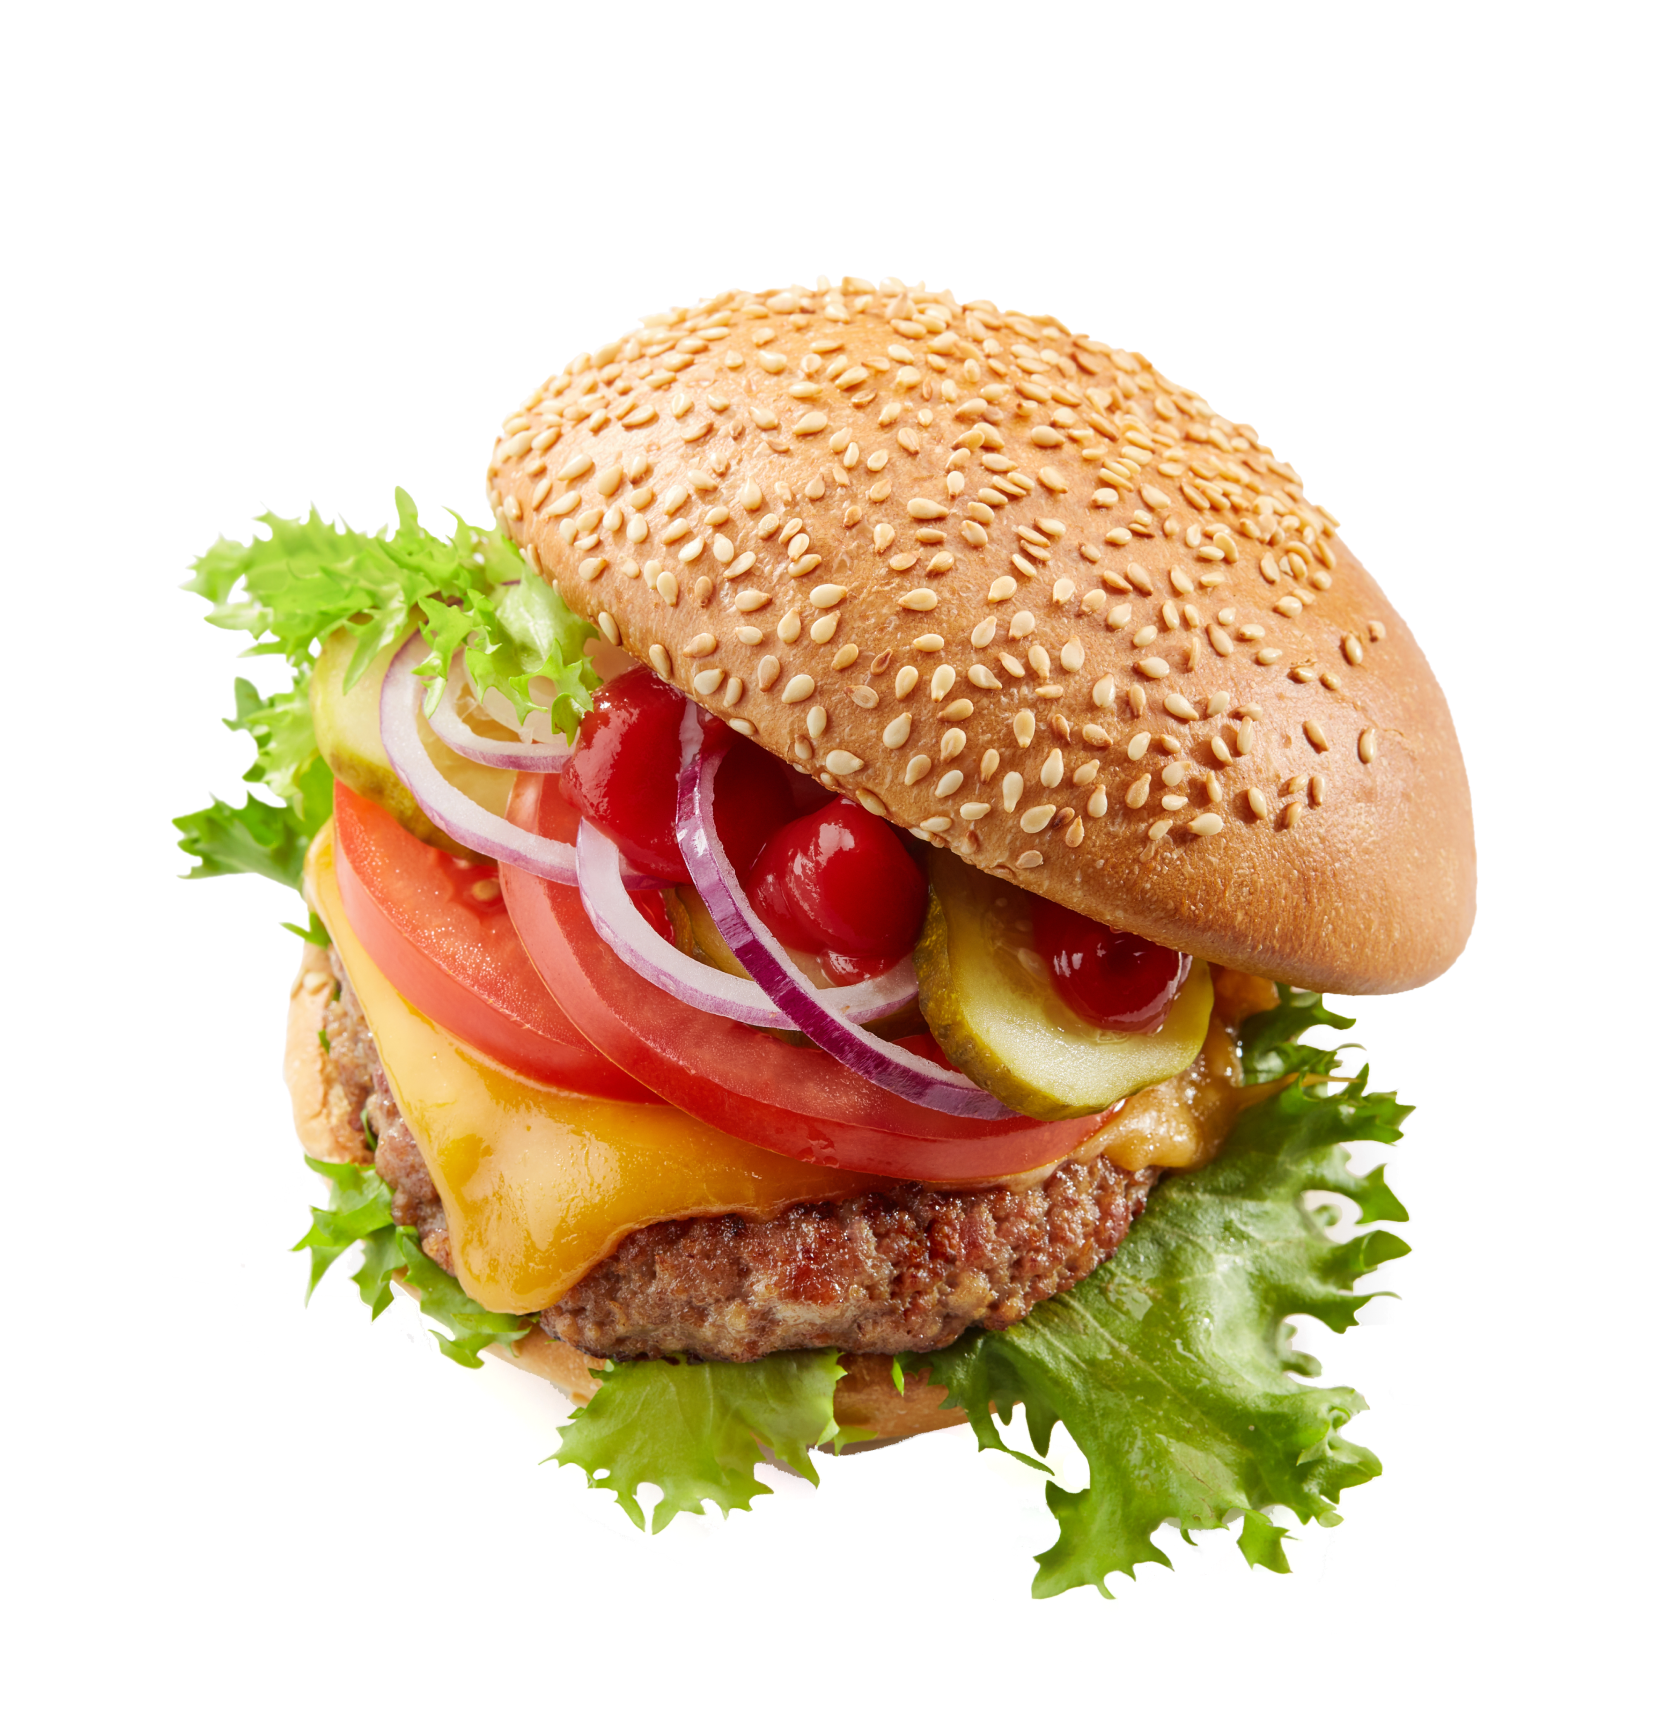
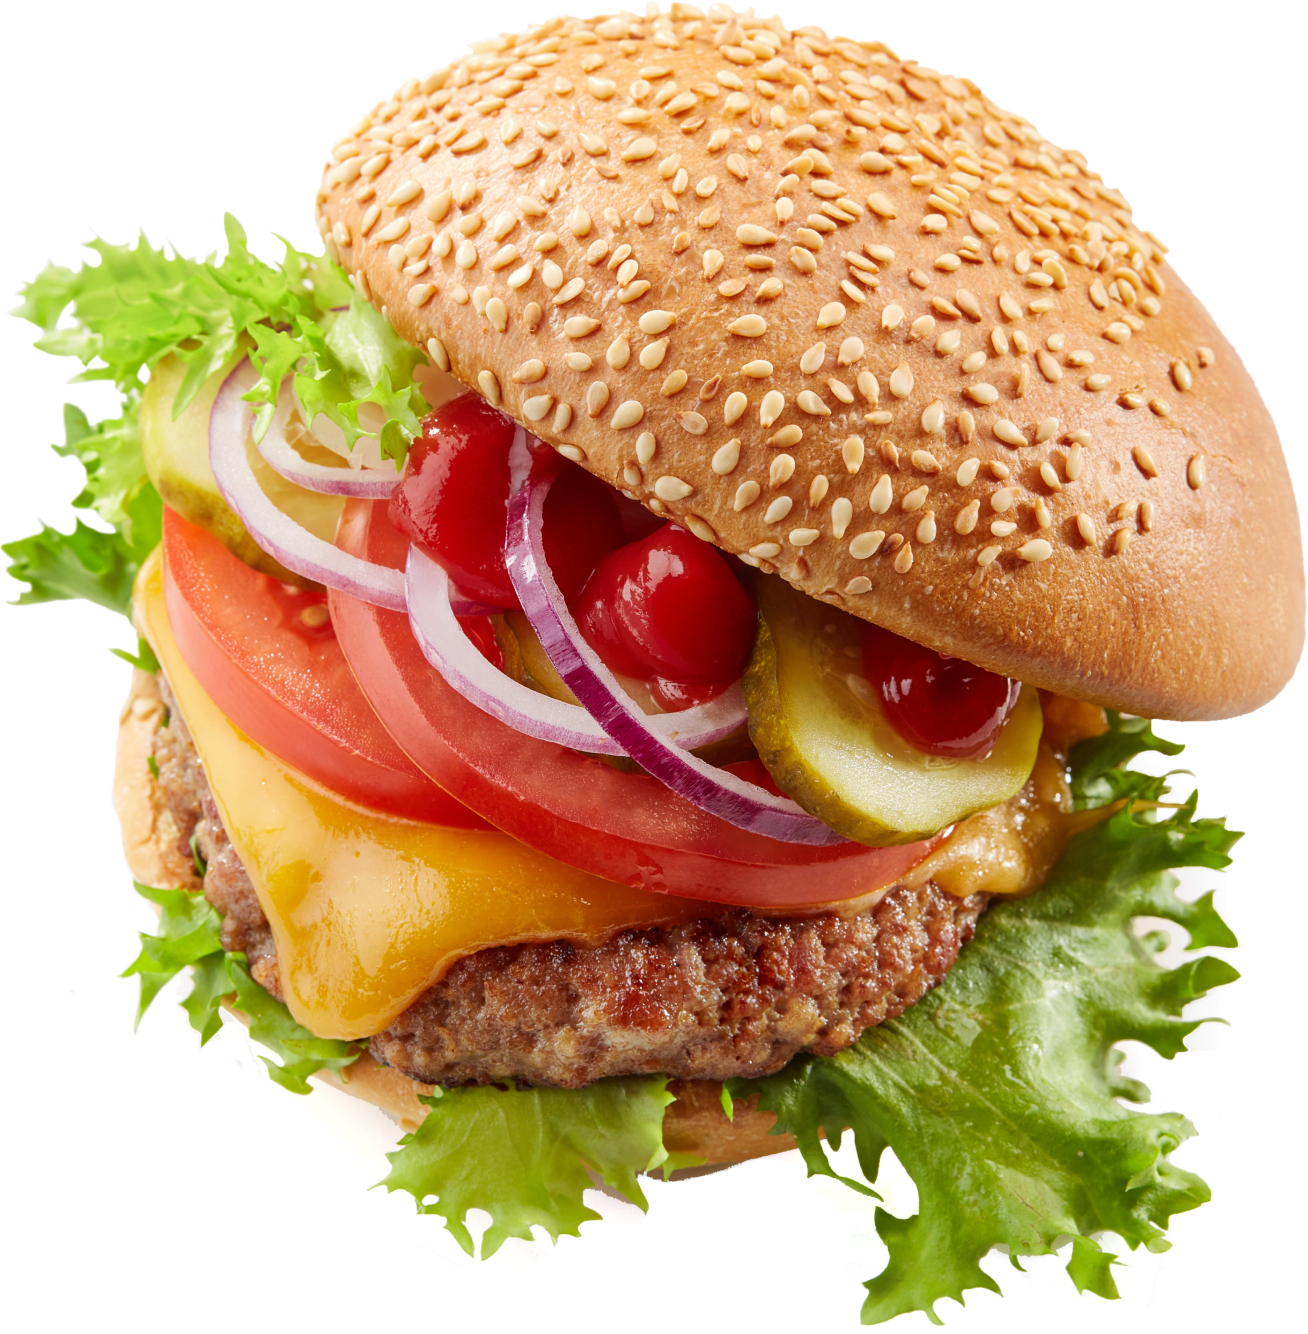
Add changes adaptive

diff --git a/css/main.css b/css/main.css
@@ -594,10 +594,11 @@ h3 {
 }
 
 .wrap img {
-    width: 829px;
-    height: 861px;
+    width: 653px;
+    height: 669px;
     position: absolute;
-    right: -168px;
+    right: -78px;
+    top: 136px;
 }
 
 .promo {
@@ -910,4 +911,50 @@ h3 {
         object-fit: cover;
         object-position: 121px;
     }*/
+}
+
+@media (max-width: 1200px) {
+    .visual-bg {
+        width: 36vw;
+    }
+
+    .wrap img {
+        width: 54.4vw;
+        height: 55.75vw;
+        right: -6.5vw;
+        top: 11.33vw;
+    }
+
+    .text {
+        padding-top: 14.16vw;
+        padding-bottom: 14vw;        
+        flex: 0 0 48.33vw;
+    }
+    
+    .text-title {
+        font-size: 10vw;
+        line-height: 11.7vw;
+        margin-bottom: 2.66vw;
+    }
+    
+    .text-title span {
+        font-size: 2.5vw;
+        line-height: 3.16vw;
+        margin-bottom: 1vw;
+    }
+    
+    .text p {
+        font-size: 1.58vw;
+        line-height: 1.86vw;
+        margin-bottom: 4vw;
+        padding-left: 0.083vw;
+        letter-spacing: -0.05vw;
+    }
+    
+    .wrap a,
+    .promo a {
+        border-radius: 5px;
+        padding: 1.71vw 3.92vw;
+        font-size: 1.16vw;
+}
 }
